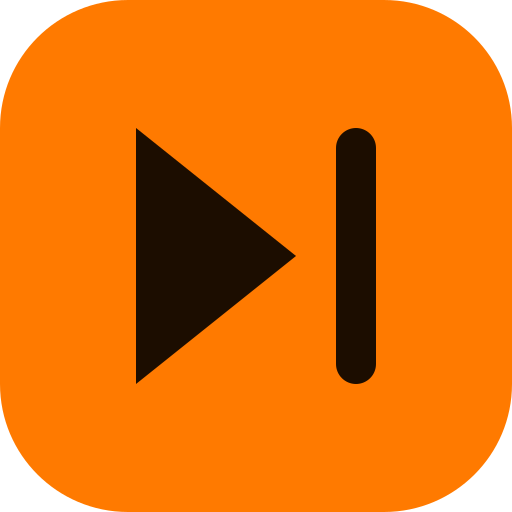
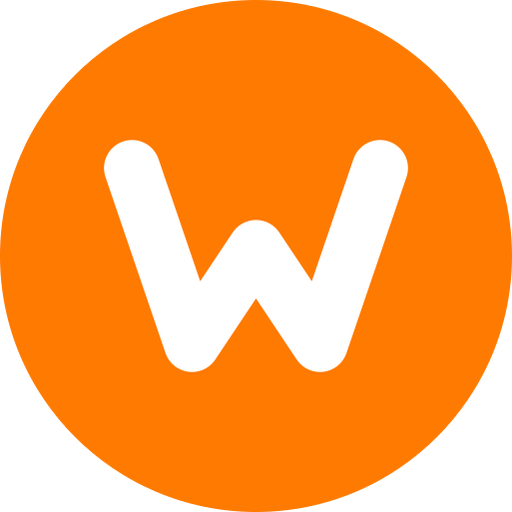
Rename echoX to Wavetify and give it a round W mark
The old name and play-button icon no longer match the player, so the brand is
now Wavetify everywhere: sidebar and mobile wordmark, page titles, install
banner, manifest, embed player, About, Terms and README.

Icons and the Open Graph card are regenerated as a round orange disc with a
white W. Saved state is migrated from the echox: localStorage prefix so likes,
playlists, history, volume and the dismissed install banner survive the rename,
and the service worker cache is renamed to drop the old shell.

🤖 Generated with Codebuff

diff --git a/src/scripts/app.ts b/src/scripts/app.ts
@@ -23,15 +23,35 @@ import {
   type YouTubeVideoDetails,
 } from '../lib/api';
 
-const LIKED_KEY = 'echox:liked';
-const HISTORY_KEY = 'echox:history';
-const STATS_KEY = 'echox:stats';
-const PLAYING_KEY = 'echox:playing';
-const VOLUME_KEY = 'echox:volume';
-const SEARCHES_KEY = 'echox:searches';
-const VIDEO_CACHE_KEY = 'echox:youtube-videos';
-const VIDEO_DETAILS_KEY = 'echox:youtube-details';
-const PLAYLISTS_KEY = 'echox:playlists';
+const LIKED_KEY = 'wavetify:liked';
+const HISTORY_KEY = 'wavetify:history';
+const STATS_KEY = 'wavetify:stats';
+const PLAYING_KEY = 'wavetify:playing';
+const VOLUME_KEY = 'wavetify:volume';
+const SEARCHES_KEY = 'wavetify:searches';
+const VIDEO_CACHE_KEY = 'wavetify:youtube-videos';
+const VIDEO_DETAILS_KEY = 'wavetify:youtube-details';
+const PLAYLISTS_KEY = 'wavetify:playlists';
+
+// The app was called echoX before the rename; carry saved state across so
+// nobody loses their likes, playlists, history or last played track.
+function migrateLegacyStorage() {
+  const legacyPrefix = 'echox:';
+  try {
+    Object.keys(localStorage)
+      .filter((key) => key.startsWith(legacyPrefix))
+      .forEach((key) => {
+        const next = `wavetify:${key.slice(legacyPrefix.length)}`;
+        const value = localStorage.getItem(key);
+        if (value !== null && localStorage.getItem(next) === null) localStorage.setItem(next, value);
+        localStorage.removeItem(key);
+      });
+  } catch {
+    /* private mode or storage disabled */
+  }
+}
+
+migrateLegacyStorage();
 const HISTORY_MAX = 40;
 const STATS_MAX = 200;
 const LIKED_MAX = 200;
@@ -2065,7 +2085,7 @@ function applySearchScope() {
           : 'Type at least 2 characters to search full tracks from Audius and Jamendo, podcast episodes, live radio and videos.';
 }
 
-// On mobile the top bar shows the EchoX title plus a magnifier; the search
+// On mobile the top bar shows the Wavetify wordmark plus a magnifier; the search
 // field only takes over the bar once the magnifier (or Search tab) is tapped.
 function setSearchOpen(open: boolean) {
   topbar.classList.toggle('searching', open);
@@ -2078,18 +2098,18 @@ function setView(view: View, nav?: string) {
   currentView = view;
   document.title =
     view === 'terms'
-      ? 'Terms & Conditions | echoX'
+      ? 'Terms & Conditions | Wavetify'
       : view === 'about'
-        ? 'About echoX — Free Music, Videos, Radio & Podcasts'
+        ? 'About Wavetify — Free Music, Videos, Radio & Podcasts'
         : view === 'podcasts'
-          ? 'Podcasts | echoX'
+          ? 'Podcasts | Wavetify'
           : view === 'radio'
-            ? 'Live radio | echoX'
+            ? 'Live radio | Wavetify'
             : view === 'videos'
-              ? 'Videos | echoX'
+              ? 'Videos | Wavetify'
               : view === 'playlists'
-                ? 'Playlists | echoX'
-                : 'echoX — Free Music, Music Videos, Radio & Podcasts';
+                ? 'Playlists | Wavetify'
+                : 'Wavetify — Free Music, Music Videos, Radio & Podcasts';
   views.forEach((name) => {
     el<HTMLElement>(`view-${name}`).hidden = name !== view;
   });

diff --git a/src/scripts/embed.ts b/src/scripts/embed.ts
@@ -35,8 +35,8 @@ function render(track: Track) {
   title.textContent = track.title;
   artist.textContent = track.artist;
   desc.textContent = (track.description ?? '').trim();
-  kicker.textContent = `echoX · ${sourceLabel(track)}`;
-  document.title = `${track.title} — echoX`;
+  kicker.textContent = `Wavetify · ${sourceLabel(track)}`;
+  document.title = `${track.title} — Wavetify`;
 
   if (track.artwork) {
     const img = document.createElement('img');
@@ -58,7 +58,7 @@ function render(track: Track) {
 function fail(message: string) {
   error.hidden = false;
   error.textContent = message;
-  kicker.textContent = 'echoX';
+  kicker.textContent = 'Wavetify';
   title.textContent = 'Not available';
   artist.textContent = '';
 }

diff --git a/src/lib/api.ts b/src/lib/api.ts
@@ -1,4 +1,4 @@
-export const APP_NAME = 'echox';
+export const APP_NAME = 'wavetify';
 const AUDIUS = 'https://api.audius.co/v1';
 const YOUTUBE_API_KEY = import.meta.env.PUBLIC_YOUTUBE_API_KEY;
 const YOUTUBE_API_BASE = 'https://www.googleapis.com/youtube/v3';
@@ -200,7 +200,7 @@ let jsonpCounter = 0;
 
 function getJsonp<T>(url: string): Promise<T> {
   return new Promise((resolve, reject) => {
-    const callback = `__echoxJsonp${++jsonpCounter}`;
+    const callback = `__wavetifyJsonp${++jsonpCounter}`;
     const script = document.createElement('script');
     const globalWindow = window as unknown as Record<string, unknown>;
     const cleanup = () => {

diff --git a/src/scripts/pwa.ts b/src/scripts/pwa.ts
@@ -3,7 +3,17 @@ interface InstallPromptEvent extends Event {
   userChoice: Promise<{ outcome: 'accepted' | 'dismissed' }>;
 }
 
-const DISMISS_KEY = 'echox:install-dismissed';
+const DISMISS_KEY = 'wavetify:install-dismissed';
+
+// Carry the pre-rename dismissal over so the banner does not reappear.
+try {
+  const legacy = localStorage.getItem('echox:install-dismissed');
+  if (legacy !== null && localStorage.getItem(DISMISS_KEY) === null) {
+    localStorage.setItem(DISMISS_KEY, legacy);
+  }
+} catch {
+  /* private mode or storage disabled */
+}
 
 const isStandalone = () =>
   window.matchMedia('(display-mode: standalone)').matches ||

diff --git a/src/styles/global.css b/src/styles/global.css
@@ -85,12 +85,12 @@ img { display: block; }
   height: 30px;
   display: grid;
   place-items: center;
-  border-radius: 9px;
+  border-radius: 50%;
   background: var(--accent);
-  color: #1c0d00;
+  color: #fff;
   flex: none;
 }
-.brand-mark svg { width: 16px; height: 16px; }
+.brand-mark svg { width: 22px; height: 22px; }
 
 .brand-x { color: var(--accent); }
 

diff --git a/public/sw.js b/public/sw.js
@@ -1,5 +1,5 @@
 // Bump this whenever the shell URLs or the caching rules change.
-const VERSION = 'echox-v3';
+const VERSION = 'wavetify-v4';
 const SHELL = [
   '/',
   '/embed/',

diff --git a/README.md b/README.md
@@ -1,4 +1,4 @@
-# echoX
+# Wavetify
 
 **Free online music.** A small Spotify-style web player built with Astro, streaming full tracks from Audius and Jamendo, podcast episodes, live radio and YouTube music videos — no accounts, no database, no backend.
 
@@ -16,13 +16,13 @@
 - **Playback** — a persistent player bar with play/pause, previous/next, seek and volume, plus the queue built from the list you are looking at.
 - **Video playback** — music videos play in an embedded YouTube player instead of the audio element, with a video-first full-screen view (video on top, title underneath, expand/PiP/fullscreen in the header). The now playing card previews the actual muted video with a fullscreen button, and the panel beside it shows the full description, view/like/comment counts and a **Watch on YouTube** link.
 - **Full-screen now playing** — the expand button next to Like (or the player cover) opens the artwork on a blurred copy of itself, with the source details the API returns: genre, mood, tags, release date, play/favorite/repost counts, album, episode length, station language, codec, bitrate and more, plus a link back to the original source.
-- **Share and embed** — every song, podcast episode and radio station has a share button in the detail panel, the player bar and the full-screen view. It produces a direct link (`/?t=…`) plus a Spotify-style `<iframe>` embed served from `/embed/`, with artwork, a blurred cover backdrop, play/pause, a seek bar and a backlink to echoX. The share sheet includes a **live, playable preview** of that embed plus the track title/description, and social previews use the `og.png` card.
+- **Share and embed** — every song, podcast episode and radio station has a share button in the detail panel, the player bar and the full-screen view. It produces a direct link (`/?t=…`) plus a Spotify-style `<iframe>` embed served from `/embed/`, with artwork, a blurred cover backdrop, play/pause, a seek bar and a backlink to Wavetify. The share sheet includes a **live, playable preview** of that embed plus the track title/description, and social previews use the `og.png` card.
 - **Playlists** — group songs, podcasts, radio and videos into playlists that live in `localStorage`, shown as cards inside Library; a search field inside each playlist adds tracks, and playing from a playlist labels the player with the playlist name.
 - **Library on this device** — play again, most played, recently played history and liked songs, all stored in `localStorage`.
 - **Resume after reload** — the last played song, its queue and its position are restored, and playback continues automatically when the browser allows it.
 - **Live radio and podcasts** — community radio stations (HTTPS streams only) and podcast series with full episodes; the radio page loads 20 stations at a time with a *Load more* button, and tapping the now-playing radio title lists the other stations from the same country.
-- **Mobile first** — compact top bar with the echoX title and a magnifier that opens a full-width search field, bottom navigation, safe-area aware player above the nav, two-column grid and a scrollable detail panel on phones.
-- **Cover fallback** — tracks without artwork (or with broken artwork URLs) get a branded echoX placeholder instead of a broken image.
+- **Mobile first** — compact top bar with the Wavetify title and a magnifier that opens a full-width search field, bottom navigation, safe-area aware player above the nav, two-column grid and a scrollable detail panel on phones.
+- **Cover fallback** — tracks without artwork (or with broken artwork URLs) get a branded Wavetify placeholder instead of a broken image.
 - **Installable PWA** — web app manifest, maskable home-screen icons and a service worker that caches the app shell, so the player can be installed and opened without browser chrome.
 
 ## Tech stack
@@ -34,7 +34,7 @@
 | Styling   | Plain CSS with custom properties in `src/styles/global.css`    |
 | Audio     | HTML5 `<audio>`, streamed directly from the source APIs        |
 | Video     | [YouTube IFrame Player API](https://developers.google.com/youtube/iframe_api_reference) with the YouTube Data API v3 |
-| Icons     | Inline SVG + a hand-made `public/favicon.svg` play-button mark |
+| Icons     | Inline SVG + a hand-made `public/favicon.svg` round orange W mark |
 
 No UI framework, no CSS library, no client-side router — four TypeScript modules (API client, player logic, PWA glue and the embed player), one stylesheet and two shared Astro components. The only external service that needs a key is YouTube.
 
@@ -84,11 +84,11 @@ Create the key in [Google Cloud Console](https://console.cloud.google.com/apis/c
 
 YouTube gives 10,000 quota units per day; a search costs 100 and a video lookup costs 1. The app spends at most two searches per Videos refresh, caches the resulting list for six hours and caches per-video descriptions/counters for 24 hours.
 
-For share previews (`og:image`) to point at the absolute production URL, set `PUBLIC_SITE_URL` at build time, e.g. `PUBLIC_SITE_URL=https://echox.example npm run build`. Without it the relative `/og.png` is used.
+For share previews (`og:image`) to point at the absolute production URL, set `PUBLIC_SITE_URL` at build time, e.g. `PUBLIC_SITE_URL=https://wavetify.example npm run build`. Without it the relative `/og.png` is used.
 
 ### Install as an app
 
-Chrome, Edge and Android offer **Install app** (or the in-app banner) and open echoX in a standalone window with the play-button icon. On iOS use Safari's **Share → Add to Home Screen**; the install banner explains that step there.
+Chrome, Edge and Android offer **Install app** (or the in-app banner) and open Wavetify in a standalone window with the round orange W icon. On iOS use Safari's **Share → Add to Home Screen**; the install banner explains that step there.
 
 The service worker caches the app shell, icons and hashed build assets, so the interface opens instantly and survives a reload without a connection. Audio is not cached: tracks, radio and podcasts are streamed from their sources and still need the network. Registration only happens in production builds (`npm run build` then `npm run preview`, or a deployed host), never in `astro dev`.
 
@@ -97,7 +97,7 @@ The service worker caches the app shell, icons and hashed build assets, so the i
 ```text
 /
 ├── public/
-│   ├── favicon.svg          # echoX play-button icon
+│   ├── favicon.svg          # Wavetify round icon
 │   ├── favicon.ico
 │   ├── apple-touch-icon.png
 │   ├── icon-192.png         # PWA icons
@@ -131,7 +131,7 @@ The service worker caches the app shell, icons and hashed build assets, so the i
 
 Astro renders the shell and `src/scripts/app.ts` runs on the client. All network calls happen in the browser, which is possible because every API used here sends permissive CORS headers — that is why the site needs no server.
 
-- **Audius** — `GET /v1/tracks/trending`, `/v1/tracks/search`, `/v1/users/handle/{handle}/tracks` and `/v1/tracks/{id}/stream`. The stream endpoint redirects to an MP3 and supports HTTP range requests, so seeking works and the whole song plays. The required `app_name=echox` query parameter identifies the app.
+- **Audius** — `GET /v1/tracks/trending`, `/v1/tracks/search`, `/v1/users/handle/{handle}/tracks` and `/v1/tracks/{id}/stream`. The stream endpoint redirects to an MP3 and supports HTTP range requests, so seeking works and the whole song plays. The required `app_name=wavetify` query parameter identifies the app.
 - **Jamendo** — `GET /v3.0/tracks/?client_id=…&search=…`, `/v3.0/tracks/?order=popularity_month` and `/v3.0/artists/tracks/?id={artistId}`. The API sends permissive CORS headers and returns a full-length `audio` URL (192 kbps MP3), artwork and Creative Commons licence info. Songs play in full, not as previews.
 - **Apple Podcasts** — the iTunes Search endpoint with `media=podcast&entity=podcastEpisode`; `previewUrl` serves the episode audio and `/lookup?id={collectionId}&entity=podcastEpisode` lists more episodes from a show.
 - **Radio Browser** — `GET https://de1.api.radio-browser.info/json/stations/search`, a free, keyless, community-run directory. Only HTTPS streams are offered, and audio plays straight from the broadcaster.
